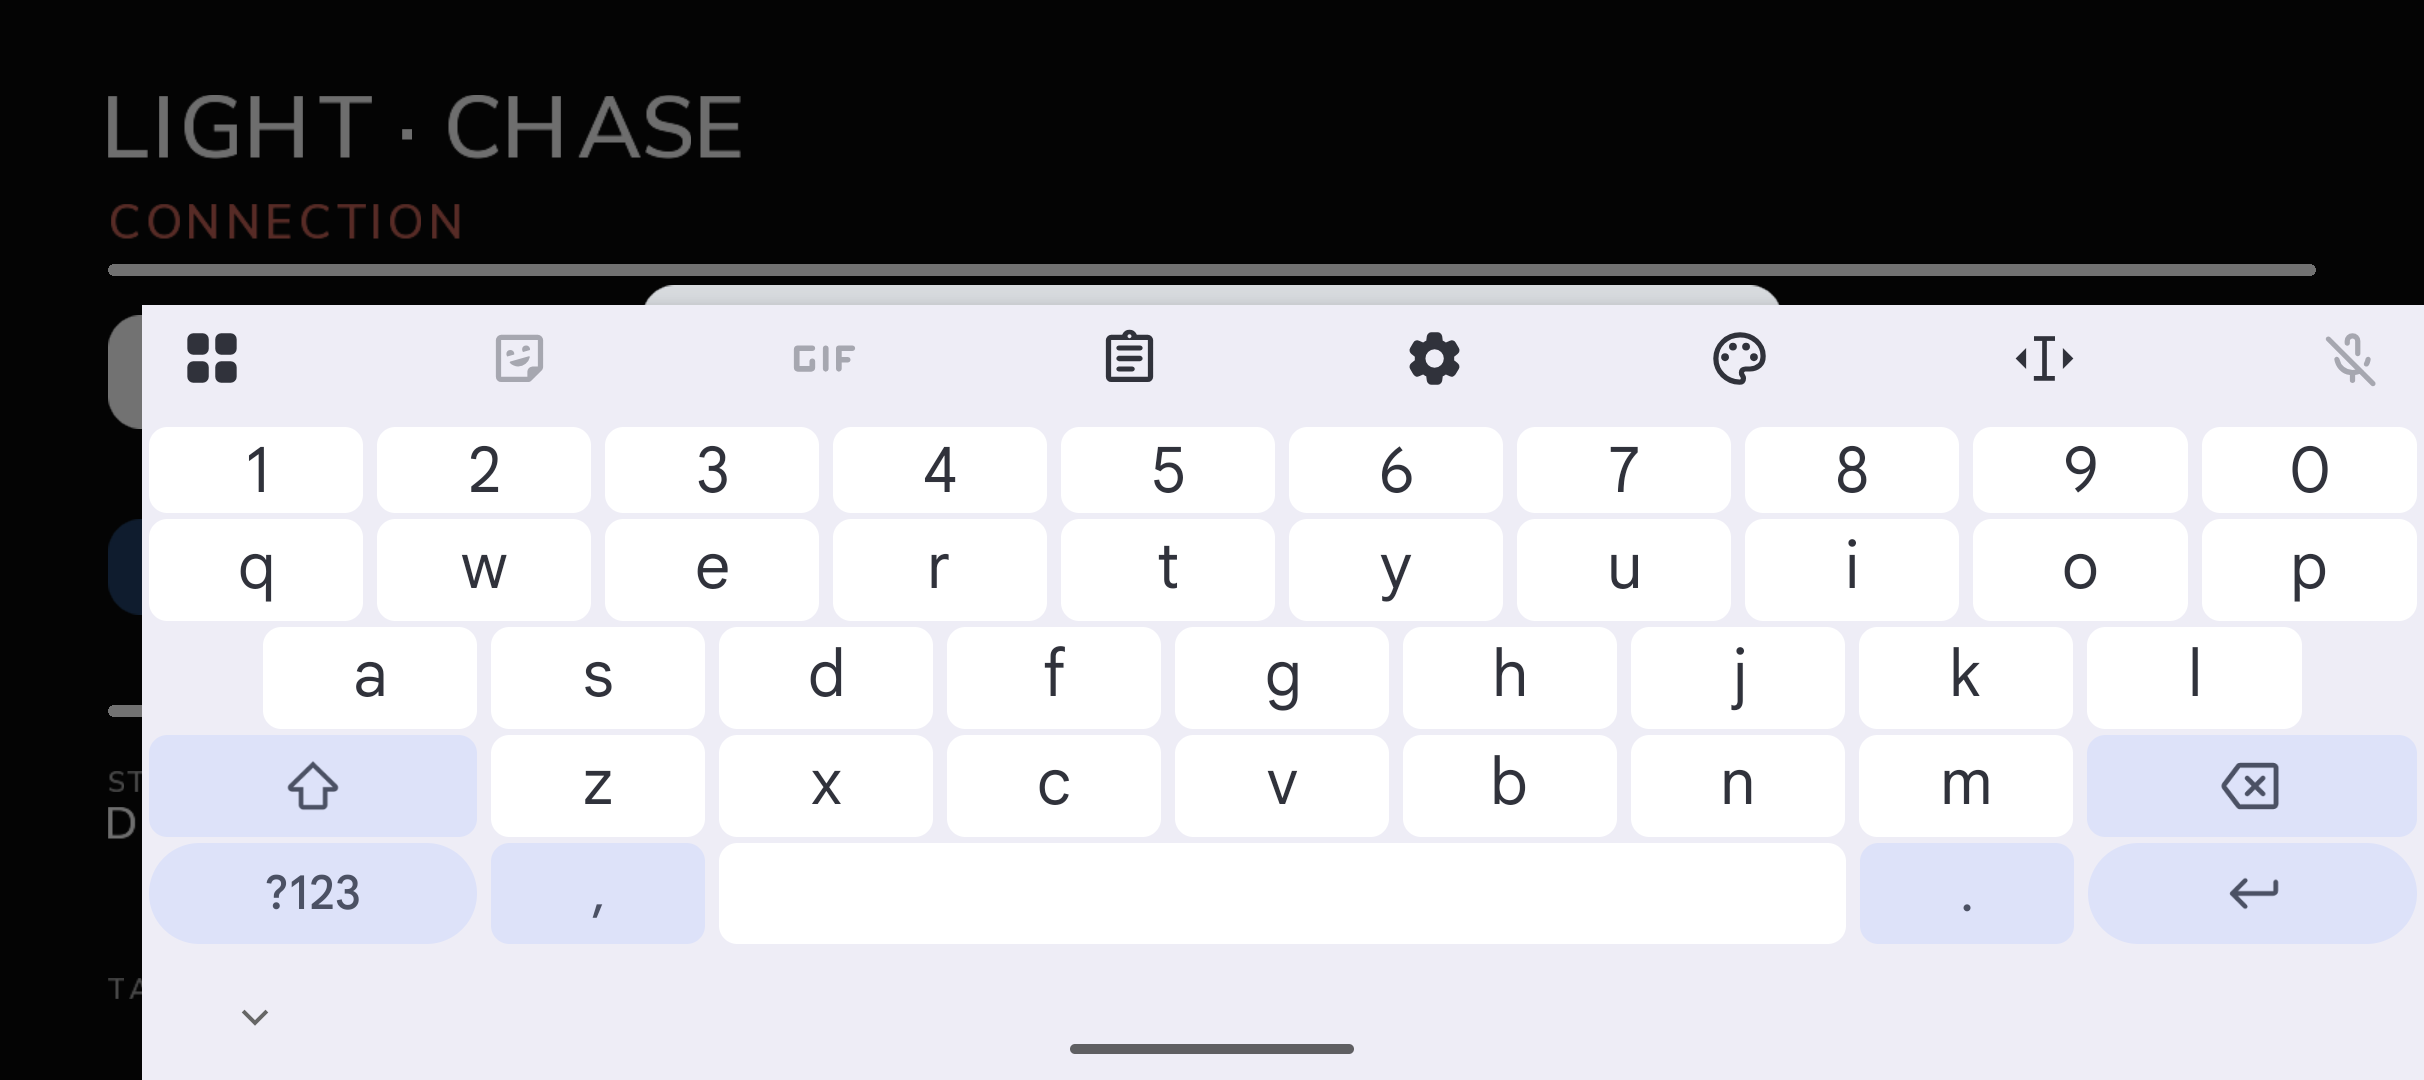
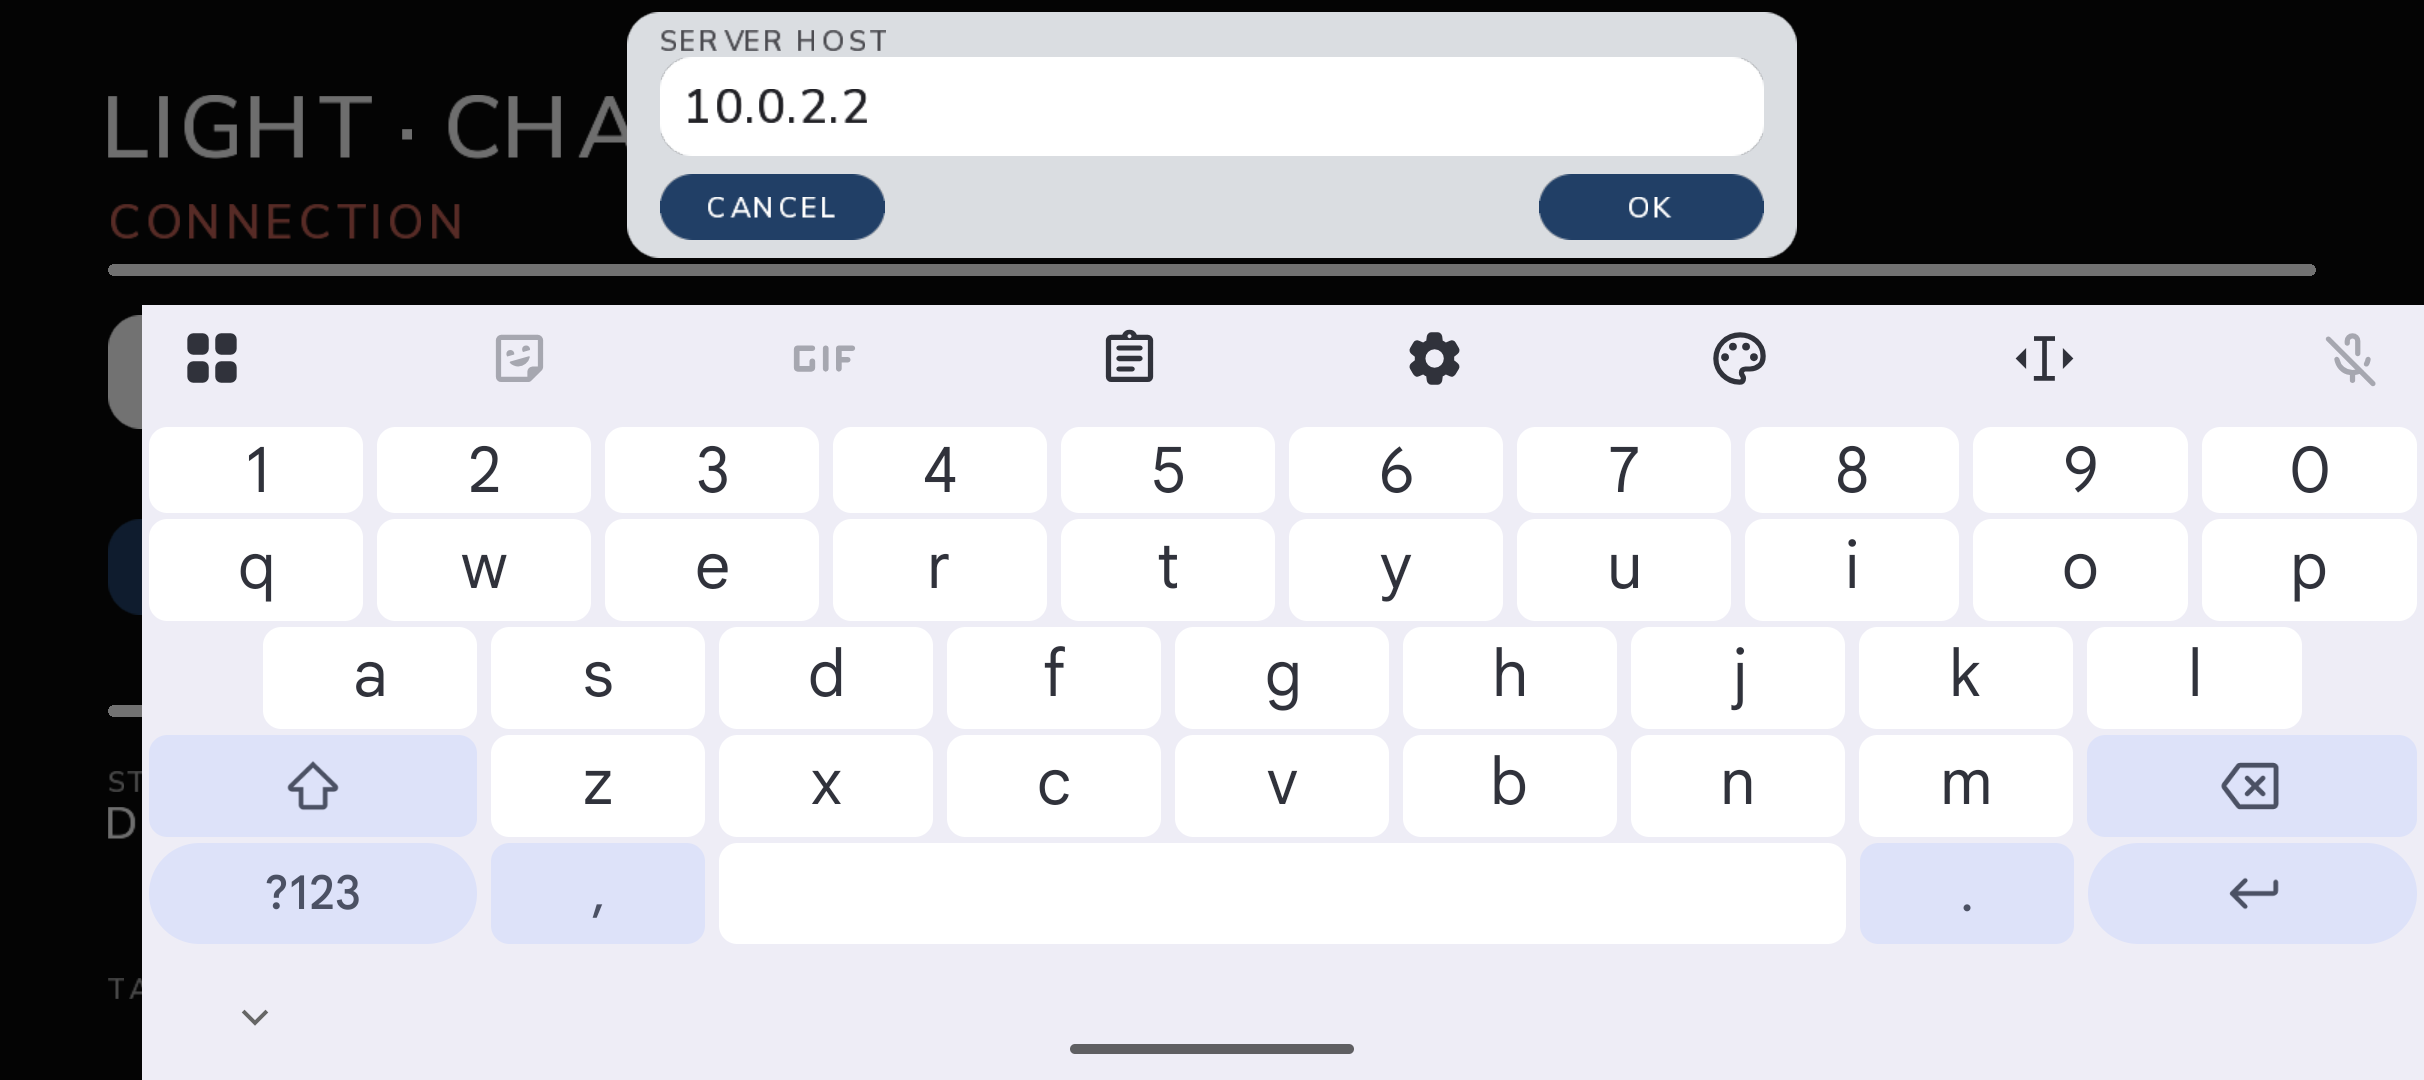
ui: accent MODE/SCENARIO sized for the longest label, compact editor above the keyboard

Changed region(s): [[0.2475, 0.0, 0.7426, 0.3056]]

diff --git a/client-core/src/main/java/com/lightchase/client/LightChaseApp.java b/client-core/src/main/java/com/lightchase/client/LightChaseApp.java
@@ -74,11 +74,14 @@ public final class LightChaseApp extends ApplicationAdapter {
     private static final float CONNECT_ACTION_TOP = 346f;
 
     // The inline editor's box, shared by drawing and hit testing so they cannot drift.
-    private static final float EDITOR_W = 760f;
-    private static final float EDITOR_H = 320f;
-    private static final float EDITOR_TOP = 190f;
-    private static final float EDITOR_BTN_W = 168f;
-    private static final float EDITOR_BTN_H = 60f;
+    // The on-screen keyboard eats the bottom half of a landscape phone, so the whole modal has
+    // to live in the top band: title, field and buttons stacked in ~165 units.
+    private static final float EDITOR_W = 780f;
+    private static final float EDITOR_H = 164f;
+    private static final float EDITOR_TOP = 8f;
+    private static final float EDITOR_BTN_W = 150f;
+    private static final float EDITOR_BTN_H = 44f;
+    private static final float EDITOR_BTN_TOP = 108f;
     private static final float MATCH_RULE = 96f;
     private static final float RESULT_ACTION_TOP = 552f;
     private static final float BOX_RADIUS = 0.0f;
@@ -570,15 +573,12 @@ public final class LightChaseApp extends ApplicationAdapter {
 
     private boolean tapEditor(Vector2 p) {
         float px = (ui.getWorldWidth() - EDITOR_W) / 2f;
-        float fx = px + 34f;
-        float fw = EDITOR_W - 68f;
-        float by = EDITOR_TOP + EDITOR_H - 34f - EDITOR_BTN_H;
-        if (inside(p, fx, UiTheme.H - (by + EDITOR_BTN_H), EDITOR_BTN_W, EDITOR_BTN_H)) {
-            startWash(8);
-            return true;
-        }
-        if (inside(p, fx + fw - EDITOR_BTN_W, UiTheme.H - (by + EDITOR_BTN_H),
-                EDITOR_BTN_W, EDITOR_BTN_H)) {
+        float fx = px + 22f;
+        float fw = EDITOR_W - 44f;
+        float by = EDITOR_TOP + EDITOR_BTN_TOP;
+        float y = UiTheme.H - (by + EDITOR_BTN_H);
+        if (inside(p, fx, y, EDITOR_BTN_W, EDITOR_BTN_H)) { startWash(8); return true; }
+        if (inside(p, fx + fw - EDITOR_BTN_W, y, EDITOR_BTN_W, EDITOR_BTN_H)) {
             startWash(7);
             return true;
         }
@@ -603,11 +603,11 @@ public final class LightChaseApp extends ApplicationAdapter {
             float actY = UiTheme.yFromTop(CONNECT_ACTION_TOP, CTA_H);
             if (inside(p, UiTheme.MARGIN, actY, CTA_W, CTA_H)) { startWash(0); return true; }
             if (mode != Mode.LAN
-                    && inside(p, scenarioX(ui.getWorldWidth()), actY, FRAME_W, CTA_H)) {
+                    && inside(p, scenarioX(ui.getWorldWidth()), actY, SCENARIO_W, CTA_H)) {
                 startWash(2);
                 return true;
             }
-            if (inside(p, modeX(ui.getWorldWidth()), actY, FRAME_W, CTA_H)) {
+            if (inside(p, modeX(ui.getWorldWidth()), actY, MODE_W, CTA_H)) {
                 startWash(3);
                 // Switching transport drops the current one: leaving a live LAN socket behind while
                 // the UI shows OFFLINE would let two transports deliver callbacks.
@@ -762,12 +762,6 @@ public final class LightChaseApp extends ApplicationAdapter {
         Page target = page();
         if (shownPage == null) {
             shownPage = target;                       // first frame: there is nothing to hide
-        } else if (target == Page.CONNECT && shownPage != Page.CONNECT) {
-            // The session is gone, so the model behind the old page is gone too: switch at once
-            // instead of animating a page whose room no longer exists.
-            shownPage = Page.CONNECT;
-            fadePhase = 0;
-            fadeT = 0f;
         } else if (target != shownPage && fadePhase == 0 && !washing()) {
             // The room moved on. Turn the screen white *while the old page is still the one on
             // screen*; the new page is only adopted once the cover is opaque. Waiting for a press
@@ -965,11 +959,11 @@ public final class LightChaseApp extends ApplicationAdapter {
         primaryButton(m, CONNECT_ACTION_TOP, CTA_W, CTA_H, "CONNECT", lanGatewayFactory != null,
                 washOf(0));
         if (mode != Mode.LAN) {
-            framedAction(scenarioX(w), CONNECT_ACTION_TOP, FRAME_W, CTA_H, scenarioLabel(),
-                    scenarioActive(), washOf(2));
+            framedAction(scenarioX(w), CONNECT_ACTION_TOP, SCENARIO_W, CTA_H, scenarioLabel(),
+                    true, washOf(2));
         }
-        framedAction(modeX(w), CONNECT_ACTION_TOP, FRAME_W, CTA_H, modeLabel(),
-                mode == Mode.LAN, washOf(3));
+        framedAction(modeX(w), CONNECT_ACTION_TOP, MODE_W, CTA_H, modeLabel(),
+                true, washOf(3));
 
         kv(m, CONNECT_RULE2 + bs + 44f, "STATUS", connectionState, UiTheme.TEXT);
         if (!connectionDetail.isEmpty()) {
@@ -1175,12 +1169,6 @@ public final class LightChaseApp extends ApplicationAdapter {
         scratchColor.set(Color.WHITE);
         scratchColor.lerp(new Color(0.94f, 0.80f, 0.78f, 1f), lit);
         uiRound.fill(batch, scratchColor, x, top, w, h);
-        if (justTapped) {
-            // A short accent bar along the bottom edge: the tap is acknowledged even though the
-            // actual editing happens in a system dialog.
-            float unit = UiDraw.width(fonts.mono, "M", 0.4f);
-            uiRound.fill(batch, UiTheme.ACCENT, x + w / 2f - unit * 2f, top + h - 5f, unit * 4f, 4f);
-        }
         float cx = x + w / 2f;
         float hLabel = UiDraw.capHeight(fonts.mono);
         float hValue = UiDraw.capHeight(fonts.displaySmall);
@@ -1253,33 +1241,30 @@ public final class LightChaseApp extends ApplicationAdapter {
         scratchColor.set(0f, 0f, 0f, 0.55f);
         uiRound.rect(batch, scratchColor, 0f, 0f, w, UiTheme.H);
 
-        scratchColor.set(0.855f, 0.867f, 0.886f, 1f);       // 灰白面板
+        scratchColor.set(0.855f, 0.867f, 0.886f, 1f);
         uiRound.fill(batch, scratchColor, px, py, pw, ph);
 
-        UiDraw.text(batch, fonts.mono, editorTitle(), px + 34f, py + 30f,
-                new Color(0.20f, 0.20f, 0.20f, 1f), 2f);
+        UiDraw.text(batch, fonts.mono, editorTitle(), px + 22f, py + 12f,
+                new Color(0.30f, 0.30f, 0.32f, 1f), 2f);
 
-        float fx = px + 34f;
-        float fy = py + 76f;
-        float fw = pw - 68f;
-        float fh = 92f;
+        float fx = px + 22f;
+        float fy = py + 30f;
+        float fw = pw - 44f;
+        float fh = 66f;
         uiRound.fill(batch, Color.WHITE, fx, fy, fw, fh);
 
         String text = editText.toString();
-        while (UiDraw.width(fonts.monoBig, text, 1f) > fw - 40f && text.length() > 1) {
+        while (UiDraw.width(fonts.monoBig, text, 1f) > fw - 36f && text.length() > 1) {
             text = text.substring(1);
         }
         boolean caretOn = ((System.nanoTime() / 500_000_000L) & 1L) == 0L;
-        UiDraw.text(batch, fonts.monoBig, text + (caretOn ? "|" : ""), fx + 20f,
+        UiDraw.text(batch, fonts.monoBig, text + (caretOn ? "|" : ""), fx + 18f,
                 fy + (fh - UiDraw.capHeight(fonts.monoBig)) / 2f,
                 new Color(0.13f, 0.13f, 0.15f, 1f), 1f);
 
-        float bw = EDITOR_BTN_W;
-        float bh = EDITOR_BTN_H;
-        float by = py + ph - 34f - bh;
-        framedButton(fx, by, bw, bh, "CANCEL", washOf(8));
-        framedButton(fx + fw - bw, by, bw, bh, "OK", washOf(7));
-
+        float by = py + EDITOR_BTN_TOP;
+        framedButton(fx, by, EDITOR_BTN_W, EDITOR_BTN_H, "CANCEL", washOf(8));
+        framedButton(fx + fw - EDITOR_BTN_W, by, EDITOR_BTN_W, EDITOR_BTN_H, "OK", washOf(7));
     }
 
     /** Navy rounded button that washes white while it is pressed. */
@@ -1287,10 +1272,10 @@ public final class LightChaseApp extends ApplicationAdapter {
         scratchColor.set(READY_BLUE);
         scratchColor.lerp(Color.WHITE, lit);
         uiRound.fill(batch, scratchColor, x, top, w, h);
-        float cw = UiDraw.width(fonts.monoBig, label, 1.5f);
+        float cw = UiDraw.width(fonts.mono, label, 2f);
         scratchColor.set(Color.WHITE);
-        UiDraw.text(batch, fonts.monoBig, label, x + (w - cw) / 2f,
-                top + (h - UiDraw.capHeight(fonts.monoBig)) / 2f, scratchColor, 1.5f);
+        UiDraw.text(batch, fonts.mono, label, x + (w - cw) / 2f,
+                top + (h - UiDraw.capHeight(fonts.mono)) / 2f, scratchColor, 2f);
     }
 
     /**
@@ -1299,13 +1284,11 @@ public final class LightChaseApp extends ApplicationAdapter {
      */
     private void framedAction(float x, float top, float w, float h, String label, boolean live,
                               float lit) {
+        // Solid accent slab with a white label; pressing washes it like every other control.
         scratchColor.set(UiTheme.ACCENT);
         scratchColor.lerp(Color.WHITE, lit);
         uiRound.fill(batch, scratchColor, x, top, w, h);
-        scratchColor.set(UiTheme.BG);
-        uiRound.fill(batch, scratchColor, x + 3f, top + 3f, w - 6f, h - 6f);
-        scratchColor.set(live ? UiTheme.ACCENT : LOBBY_GREY);
-        scratchColor.lerp(Color.WHITE, lit);
+        scratchColor.set(live ? Color.WHITE : new Color(1f, 1f, 1f, 0.72f));
         fitText(fonts.mono, label, x, top, w, h, scratchColor);
     }
 
@@ -1321,15 +1304,17 @@ public final class LightChaseApp extends ApplicationAdapter {
         return (w - 2 * UiTheme.MARGIN - 2 * GRID_GAP) / 3f;
     }
 
-    private static final float FRAME_W = 248f;
+    private static final float MODE_W = 210f;
+    /** Wide enough for the longest scenario name, so switching never changes the box. */
+    private static final float SCENARIO_W = 320f;
 
     /** MODE sits against the right margin; SCENARIO is parked immediately to its left. */
     private float modeX(float w) {
-        return w - UiTheme.MARGIN - FRAME_W;
+        return w - UiTheme.MARGIN - MODE_W;
     }
 
     private float scenarioX(float w) {
-        return modeX(w) - FRAME_W - 24f;
+        return modeX(w) - SCENARIO_W - 24f;
     }
 
     /** Horizontal centre of the OPPONENT chip; LEAVE ROOM is parked under it. */
